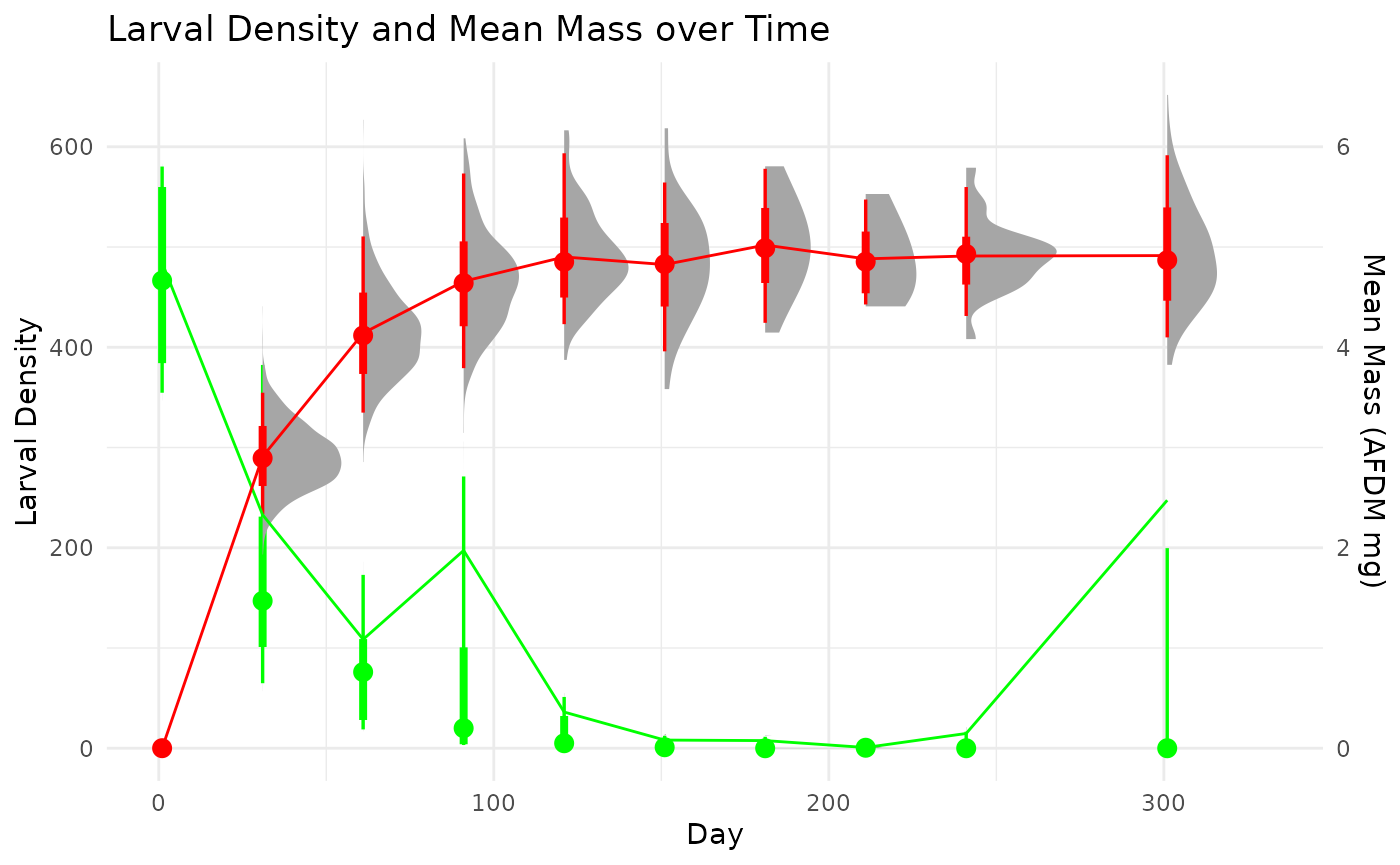
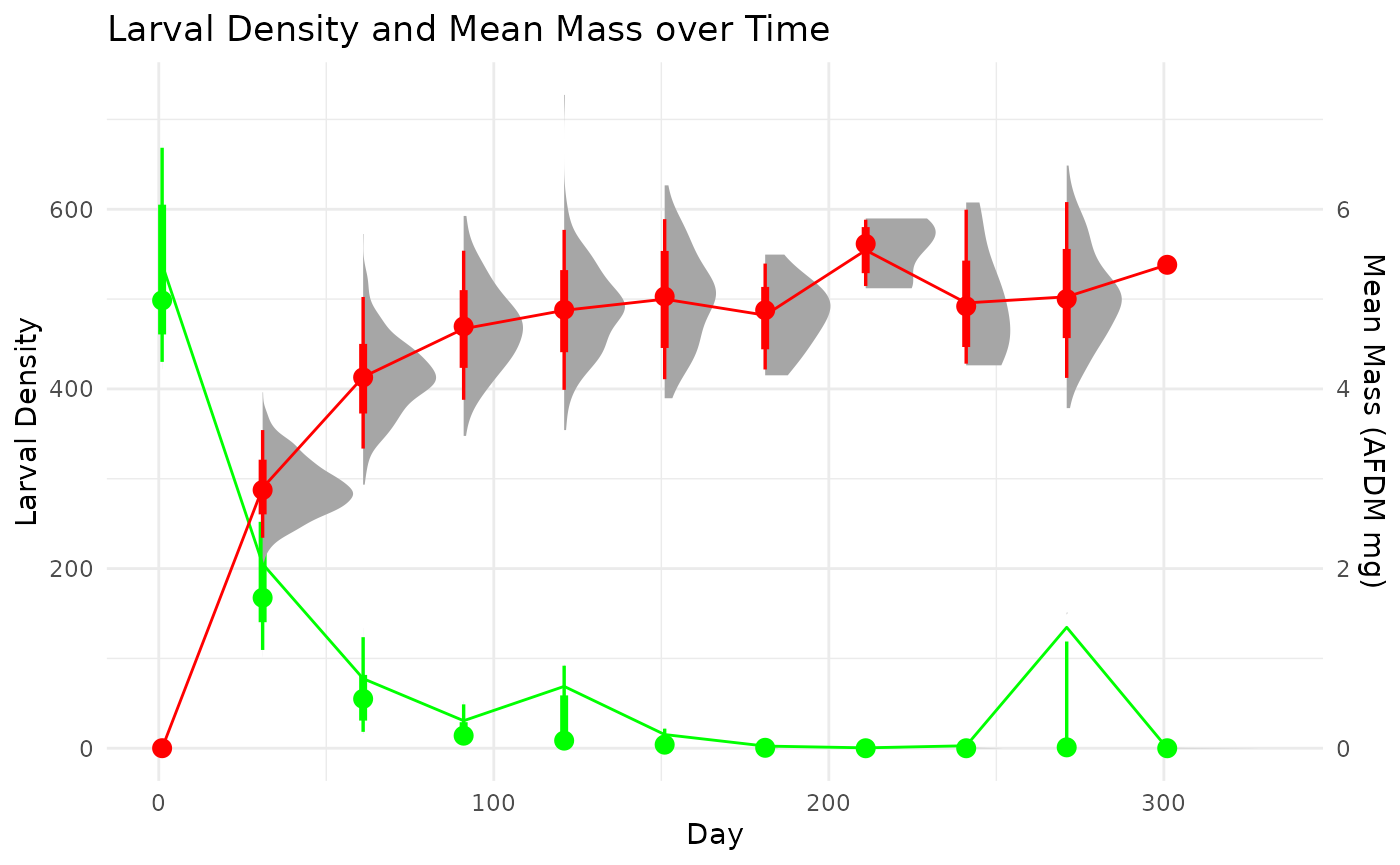
Deploying to gh-pages from @ jimjunker1/secpRod@c730c33b432367b958aaa4e33c24634ac6bacebb 🚀

diff --git a/articles/simple-example.html b/articles/simple-example.html
@@ -196,16 +196,16 @@ with:</p>
 <pre><code><span><span class="co">#&gt; <span style="color: #949494;"># A tibble: 10 × 5</span></span></span>
 <span><span class="co">#&gt;    taxonID dateID repID density afdm_mg    </span></span>
 <span><span class="co">#&gt;    <span style="color: #949494; font-style: italic;">&lt;chr&gt;</span>    <span style="color: #949494; font-style: italic;">&lt;dbl&gt;</span> <span style="color: #949494; font-style: italic;">&lt;int&gt;</span>   <span style="color: #949494; font-style: italic;">&lt;dbl&gt;</span> <span style="color: #949494; font-style: italic;">&lt;list&gt;</span>     </span></span>
-<span><span class="co">#&gt; <span style="color: #BCBCBC;"> 1</span> sppX         1     1     541 <span style="color: #949494;">&lt;dbl [541]&gt;</span></span></span>
-<span><span class="co">#&gt; <span style="color: #BCBCBC;"> 2</span> sppX         1     2     571 <span style="color: #949494;">&lt;dbl [571]&gt;</span></span></span>
-<span><span class="co">#&gt; <span style="color: #BCBCBC;"> 3</span> sppX         1     3     550 <span style="color: #949494;">&lt;dbl [550]&gt;</span></span></span>
-<span><span class="co">#&gt; <span style="color: #BCBCBC;"> 4</span> sppX         1     4     347 <span style="color: #949494;">&lt;dbl [347]&gt;</span></span></span>
-<span><span class="co">#&gt; <span style="color: #BCBCBC;"> 5</span> sppX         1     5     467 <span style="color: #949494;">&lt;dbl [467]&gt;</span></span></span>
-<span><span class="co">#&gt; <span style="color: #BCBCBC;"> 6</span> sppX         1     6     387 <span style="color: #949494;">&lt;dbl [387]&gt;</span></span></span>
-<span><span class="co">#&gt; <span style="color: #BCBCBC;"> 7</span> sppX         1     7     466 <span style="color: #949494;">&lt;dbl [466]&gt;</span></span></span>
-<span><span class="co">#&gt; <span style="color: #BCBCBC;"> 8</span> sppX         1     8     381 <span style="color: #949494;">&lt;dbl [381]&gt;</span></span></span>
-<span><span class="co">#&gt; <span style="color: #BCBCBC;"> 9</span> sppX         1     9     583 <span style="color: #949494;">&lt;dbl [583]&gt;</span></span></span>
-<span><span class="co">#&gt; <span style="color: #BCBCBC;">10</span> sppX         1    10     403 <span style="color: #949494;">&lt;dbl [403]&gt;</span></span></span></code></pre>
+<span><span class="co">#&gt; <span style="color: #BCBCBC;"> 1</span> sppX         1     1     463 <span style="color: #949494;">&lt;dbl [463]&gt;</span></span></span>
+<span><span class="co">#&gt; <span style="color: #BCBCBC;"> 2</span> sppX         1     2     458 <span style="color: #949494;">&lt;dbl [458]&gt;</span></span></span>
+<span><span class="co">#&gt; <span style="color: #BCBCBC;"> 3</span> sppX         1     3     479 <span style="color: #949494;">&lt;dbl [479]&gt;</span></span></span>
+<span><span class="co">#&gt; <span style="color: #BCBCBC;"> 4</span> sppX         1     4     422 <span style="color: #949494;">&lt;dbl [422]&gt;</span></span></span>
+<span><span class="co">#&gt; <span style="color: #BCBCBC;"> 5</span> sppX         1     5     639 <span style="color: #949494;">&lt;dbl [639]&gt;</span></span></span>
+<span><span class="co">#&gt; <span style="color: #BCBCBC;"> 6</span> sppX         1     6     575 <span style="color: #949494;">&lt;dbl [575]&gt;</span></span></span>
+<span><span class="co">#&gt; <span style="color: #BCBCBC;"> 7</span> sppX         1     7     518 <span style="color: #949494;">&lt;dbl [518]&gt;</span></span></span>
+<span><span class="co">#&gt; <span style="color: #BCBCBC;"> 8</span> sppX         1     8     677 <span style="color: #949494;">&lt;dbl [677]&gt;</span></span></span>
+<span><span class="co">#&gt; <span style="color: #BCBCBC;"> 9</span> sppX         1     9     566 <span style="color: #949494;">&lt;dbl [566]&gt;</span></span></span>
+<span><span class="co">#&gt; <span style="color: #BCBCBC;">10</span> sppX         1    10     468 <span style="color: #949494;">&lt;dbl [468]&gt;</span></span></span></code></pre>
 <details><div class="sourceCode" id="cb4"><pre class="downlit sourceCode r">
 <code class="sourceCode R"><span></span>
 <span><span class="va">summary_stats</span> <span class="op">&lt;-</span> <span class="va">singleCohortSim</span> <span class="op"><a href="../reference/pipe.html">%&gt;%</a></span></span>
